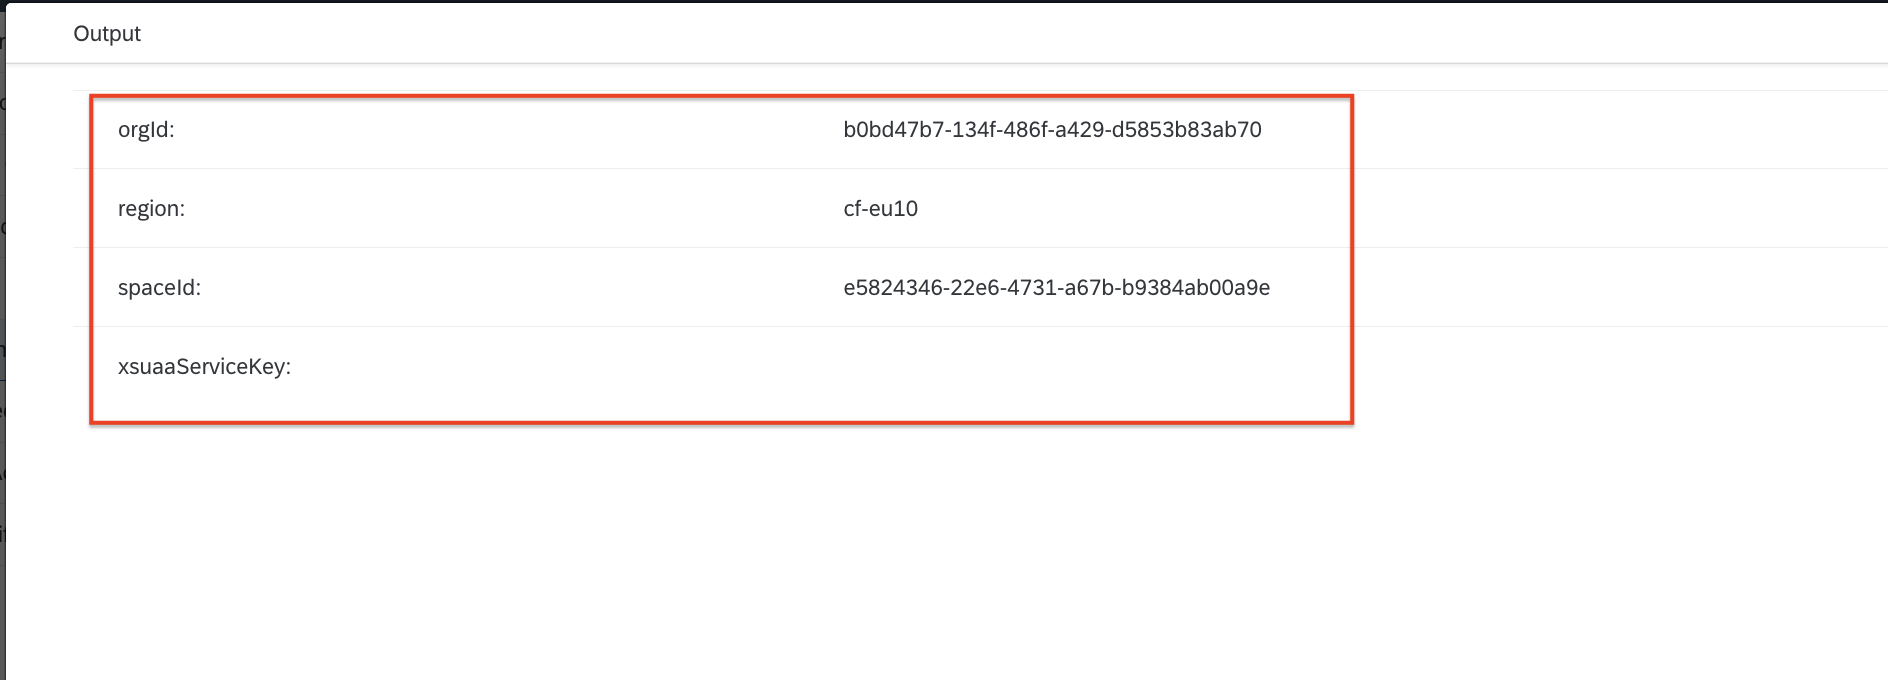
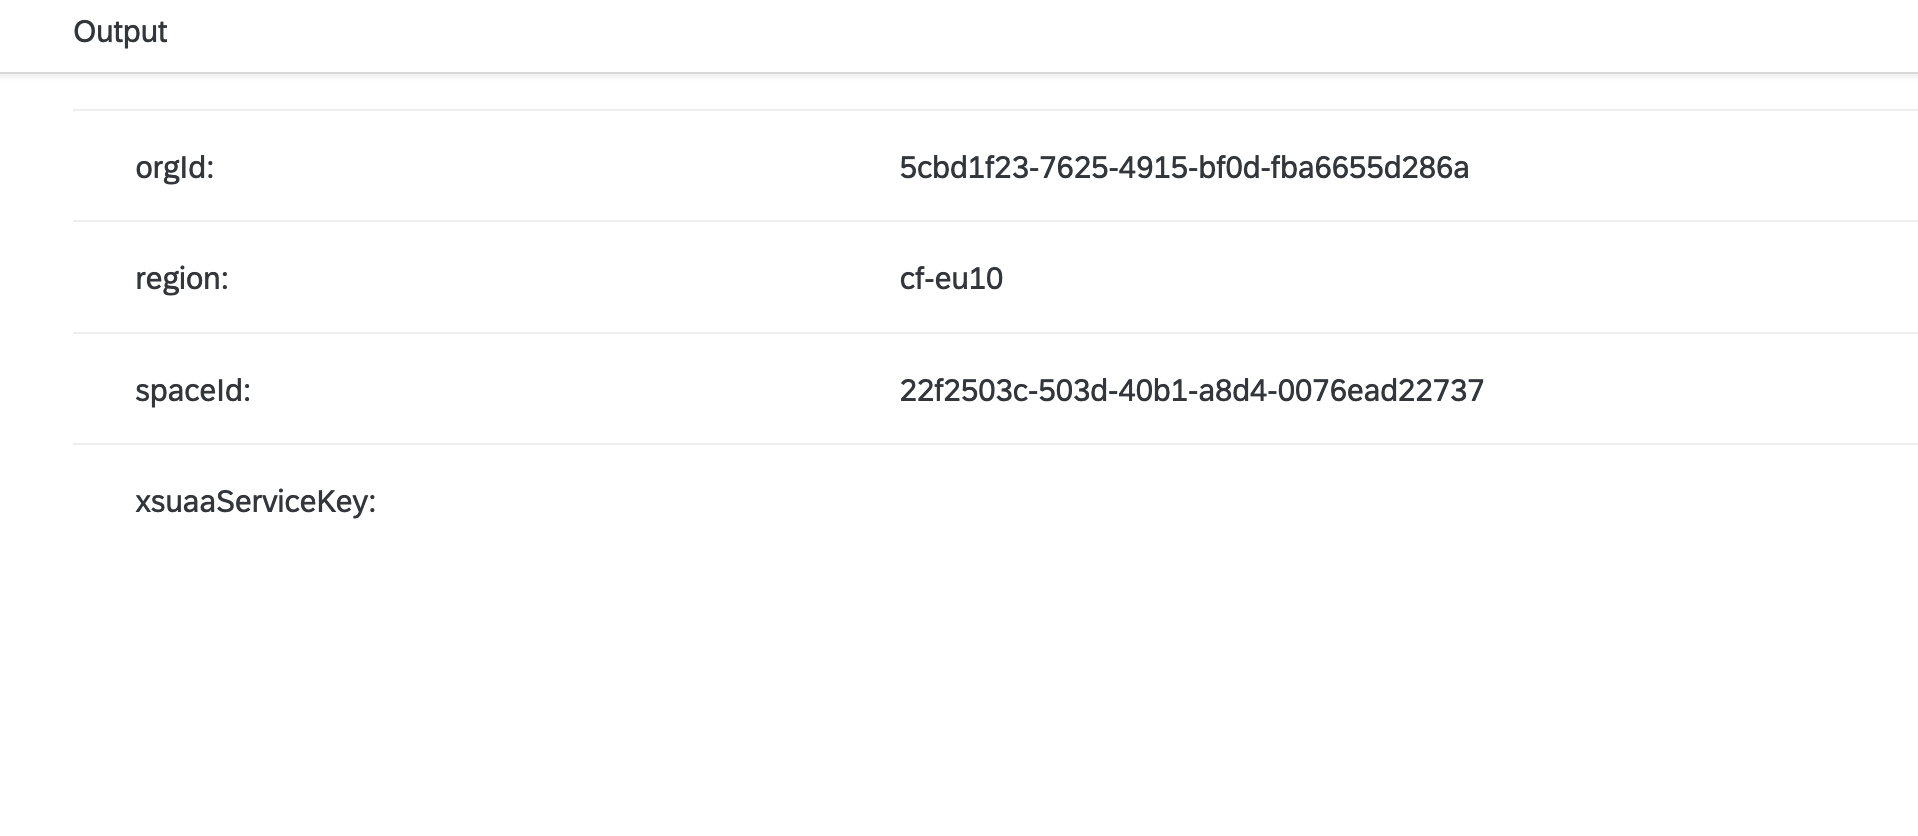
review

diff --git a/grant-privileges/README.md b/grant-privileges/README.md
@@ -8,7 +8,7 @@ Table of Contents
 
 ## Description
 
-We'll explore the capabilities of SAP Automation Pilot manage users and their permissions on subacount, organization and space level.
+As a continuation of the [Setup Cloud Foundry BTP Environment](../prepare-btp-environment/) example, we'll explore the capabilities of SAP Automation Pilot manage users and their permissions on subacount, organization and space level.
 
 This example provides two commands which utilize the **SAP Authorization and Trust Management Service (xsuaa-sapcp)** and **Cloud Foundry (cf-sapcp)** provides catalogs.
 
@@ -27,6 +27,10 @@ This example provides two commands which utilize the **SAP Authorization and Tru
 * Assigns *Space Developer* role
 
 ![Administrator Pipeline](./assets/developer-pipeline.png)
+
+**MassGrantPrivileges** builds upon the above commands and executes them on multiple users at once.
+
+![Mass Pipeline](./assets/mass-pipeline.png)
 
 :information_source: Make sure to check the other examples in the [BTP Provisioning](../README.md#btp-provisioning) section.
 
@@ -52,7 +56,28 @@ Check out the following resources for more information:
 
 ## How to use
 
-Import the content of [examples catalog](catalog.json) in your Automation Pilot tenant. Navigate to the *GrantAdministratorPrivileges* or *GrantAdministratorPrivileges* commands and trigger them.
+Import the content of [examples catalog](catalog.json) in your Automation Pilot tenant. Navigate to the *MassGrantPrivileges* command and trigger it.
+
+You'll need to provide values for the following input keys:
+
+* *region* - Technical name of your SAP BTP region, e.g. cf-eu10, cf-us20
+* *org* - Name of your Cloud Foundry organization
+* *space* - Name of your Cloud Foundry space
+* *user* - Email or ID of your technical user
+* *password* - Password of your technical user
+* *identityProvider* - Optional: origin key of your identity provider. Defaults to sap.ids
+* *serviceKey* - Service key for *SAP Authorization and Trust Management Service* for *apiaccess* plan
+* *developers* - Email address of the target users which should be granted developer privileges
+* *administrators* - Email address of the target users which should be granted administrator privileges
+* *targetIdentityProvider* - Optional: origin key of the target user's identity provider. Defaults to sap.ids
+
+After the successful execution of the command, you can check which users were reassigned to another identity provider:
+
+![Finished Execution](./assets/finished-execution.png)
+
+![Execution Output](./assets/output-results.png)
+
+To grant privielges to a single user, navigate to the *GrantAdministratorPrivileges* or *GrantDeveloperPrivileges* commands and trigger them.
 
 You'll need to provide values for the following input keys:
 
@@ -64,4 +89,6 @@ You'll need to provide values for the following input keys:
 * *identityProvider* - Optional: origin key of your identity provider. Defaults to sap.ids
 * *serviceKey* - Service key for *SAP Authorization and Trust Management Service* for *apiaccess* plan
 * *targetUser* - user to whom the privileges will be granted
-* *targetUser* - Optional: origin key of the target user's identity provider. Defaults to sap.ids
+* *targetIdentityProvider* - Optional: origin key of the target user's identity provider. Defaults to sap.ids
+
+:information_source: You can verify the result of your executions by navigating to your BTP subaccount and choosing **Security -> Users**.

diff --git a/prepare-btp-environment/README.md b/prepare-btp-environment/README.md
@@ -9,7 +9,7 @@ Table of Contents
 
 ## Description
 
-As a continuation of the [Create and Configure BTP Subaccount](../prepare-btp-environment) example, we can use SAP Automation Pilot to fully setup the Cloud Foundry environment in an already existing BTP subaccount.
+As a continuation of the [Create and Configure BTP Subaccount](../prepare-btp-subaccount) example, we can use SAP Automation Pilot to fully setup the Cloud Foundry environment in an already existing BTP subaccount.
 
 The example command utilizes the **SAP Cloud Management Service (cis-sapcp)** and **Cloud Foundry (cf-sapcp)** provided catalogs to:
 
@@ -17,7 +17,7 @@ The example command utilizes the **SAP Cloud Management Service (cis-sapcp)** an
 * Assign the *OrgManager* to the specified users
 * Create a Cloud Foundry space
 * Assign the *SpaceManager* role to the specified users.
-* Create service instance and key of *SAP Authorization and Trust Management Service (plan apiacces)*, which can be used to manage users on subaccount level.
+* Create service instance and key of *SAP Authorization and Trust Management Service (plan apiacces)*, which can be used to manage users on subaccount level. To learn how to manage users and their privileges on subaccount level, please check for [Grant Privileges Example](../grant-privileges/).
 
 ![Pipeline](assets/pipeline.png)
 
@@ -82,6 +82,10 @@ Execution is started and we can monitor its progress:
 After a few seconds, the execution should finish successfully:
 
 ![Finished Execution](assets/finished-execution.png)
+
+![Output Result](assets/output-results.png)
+
+:information_source: The value of *xsuaaServiceKey* is not displayed because it's marked as sensitive.
 
 We can verify that the command was successful by checking the BTP subaccount overview:
 

diff --git a/reassign-identity-provider/README.md b/reassign-identity-provider/README.md
@@ -53,6 +53,23 @@ Import the content of [examples catalog](catalog.json) in your Automation Pilot 
 
 You'll need to provide values for the following input keys:
 
-* *currentIdentityProvider* - Origin key of the identity provider that is currently assigned to the users
-* *newIdentityProvider* - Origin key of the identity provider that must be assigned to the users
+* *currentIdentityProvider* - Origin key of the identity provider that is currently assigned to the users. For example: sap.ids
+* *newIdentityProvider* - Origin key of the identity provider that must be assigned to the users. For example: a1rwcluzy-platform
 * *serviceKey* - The original JSON, presented by *SAP Authorization and Trust Management Service (plan apiaccess)*
+
+After the successful execution of the command, you can check which users were reassigned to another identity provider:
+
+![Finished Execution](./assets/finished-execution.png)
+
+![Execution Output](./assets/output-results.png)
+
+To reassign the identity provider of a single user, navigate to the *ReassignIdentityProvider* command and trigger it.
+
+You'll need to provide values for the following input keys:
+
+* *targetUser* - Email address of the target user which identity provider must be reassigned.
+* *currentIdentityProvider* - Origin key of the identity provider that is currently assigned to the user. For example: sap.ids
+* *newIdentityProvider* - Origin key of the identity provider that must be assigned to the user. For example: a1rwcluzy-platform
+* *serviceKey* - The original JSON, presented by *SAP Authorization and Trust Management Service (plan apiaccess)*
+
+:information_source: You can verify the result of your executions by navigating to your BTP subaccount and choosing **Security -> Users**.

diff --git a/prepare-btp-subaccount/README.md b/prepare-btp-subaccount/README.md
@@ -30,7 +30,9 @@ To use this example you'll need the following:
 
 * BTP global account
 * Platform user with access to the BTP global account
-* Instance of [SAP Cloud Management Service](https://discovery-center.cloud.sap/serviceCatalog/8ffcd3a4-2d85-4a04-a762-be3e31f78a7c) with plan *central* and a service key/binding with default configurations. They must be created in a separate BTP subaccount in the same global account.
+* Instance of [SAP Cloud Management Service](https://discovery-center.cloud.sap/serviceCatalog/8ffcd3a4-2d85-4a04-a762-be3e31f78a7c) with plan *central* and a service key/binding with default configurations. They must be created in a separate BTP subaccount in the same global account. When creating the service instance you must choose Password as the Authorization Type:
+
+![Cloud Management Authorization](./assets/cloud-management-authorization.png)
 
 :warning: If you are planning to use SAP Universal ID, please keep [SAP Note 3085908](https://launchpad.support.sap.com/#/notes/3085908) in mind
 
